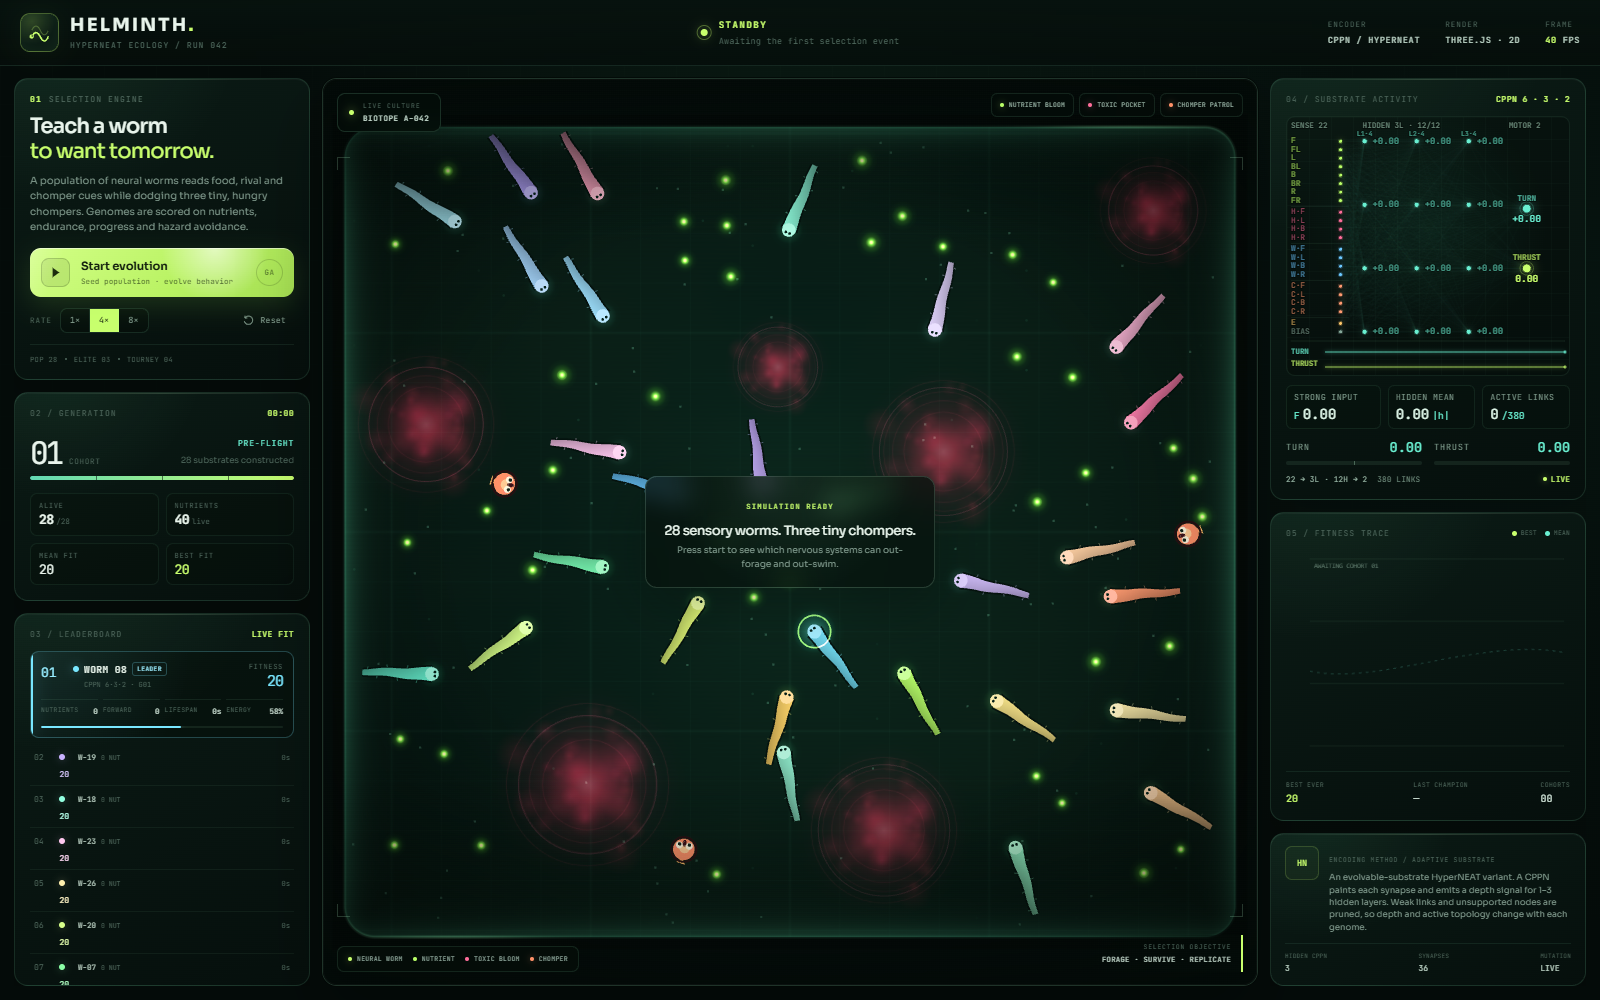
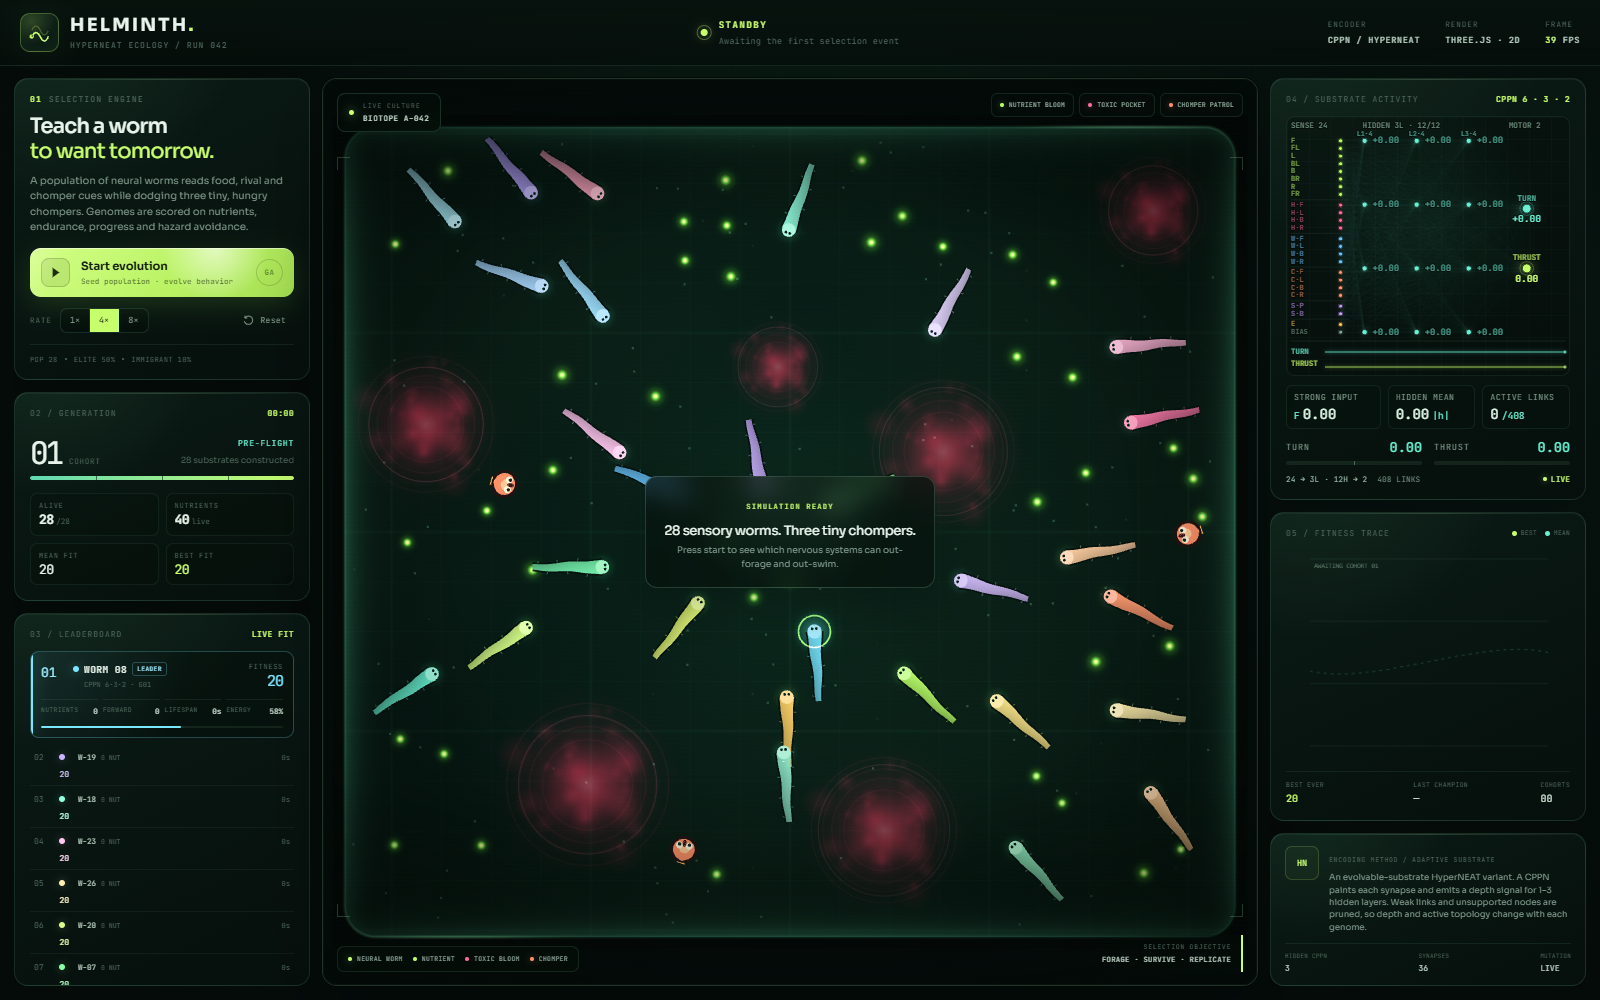
Let worms sense their own body to avoid self-collision

diff --git a/src/sim/worm.js b/src/sim/worm.js
@@ -6,6 +6,7 @@ const FOOD_RAYS = 8;
 const HAZARD_RAYS = 4;
 const WORM_RAYS = 4;
 const CHOMPER_RAYS = 4;
+const SELF_RAYS = 2;
 const SENSOR_OFFSETS = [0, Math.PI / 2, Math.PI, -Math.PI / 2];
 const TWO_PI = Math.PI * 2;
 
@@ -110,11 +111,13 @@ export class Worm {
       hazardSensorRange,
       wormSensorRange = foodSensorRange,
       chomperSensorRange = hazardSensorRange,
+      spacing,
     } = this.config.worm;
     const foodSensors = new Array(FOOD_RAYS).fill(0);
     const hazardSensors = new Array(HAZARD_RAYS).fill(0);
     const wormSensors = new Array(WORM_RAYS).fill(0);
     const chomperSensors = new Array(CHOMPER_RAYS).fill(0);
+    const selfSensors = new Array(SELF_RAYS).fill(0);
     const foodRangeSq = foodSensorRange * foodSensorRange;
     const wormRangeSq = wormSensorRange * wormSensorRange;
 
@@ -227,11 +230,44 @@ export class Worm {
       chomperSensors[index] = clamp(chomperSensors[index], 0, 1);
     }
 
+    const selfGuard = this.config.worm.collision.selfGuardSegments ?? 0;
+    let selfFold = 0;
+    let selfSide = 0;
+    for (let index = selfGuard; index < this.body.length - 1; index += 1) {
+      const a = this.body[index];
+      const b = this.body[index + 1];
+      const abx = b.x - a.x;
+      const aby = b.y - a.y;
+      const lengthSq = abx * abx + aby * aby;
+      const t =
+        lengthSq > 0.0001
+          ? Math.max(
+              0,
+              Math.min(1, ((this.x - a.x) * abx + (this.y - a.y) * aby) / lengthSq),
+            )
+          : 0;
+      const pointX = a.x + abx * t;
+      const pointY = a.y + aby * t;
+      const distance = Math.hypot(this.x - pointX, this.y - pointY);
+      const natural = index * spacing;
+      const fold = clamp((natural - distance) / natural, 0, 1);
+      if (fold <= selfFold) continue;
+      selfFold = fold;
+      const vx = pointX - this.x;
+      const vy = pointY - this.y;
+      const length = Math.hypot(vx, vy) || 1;
+      selfSide =
+        ((Math.cos(this.heading) * vy - Math.sin(this.heading) * vx) / length) * fold;
+    }
+    selfSensors[0] = selfFold;
+    selfSensors[1] = selfSide;
+
     this.sensorValues = [
       ...foodSensors,
       ...hazardSensors,
       ...wormSensors,
       ...chomperSensors,
+      ...selfSensors,
       clamp(this.energy / this.maxEnergy, 0, 1),
       1,
     ];

diff --git a/src/neat/hyperneat.js b/src/neat/hyperneat.js
@@ -9,6 +9,7 @@ const FOOD_LABELS = ['F', 'FL', 'L', 'BL', 'B', 'BR', 'R', 'FR'];
 const HAZARD_LABELS = ['H·F', 'H·L', 'H·B', 'H·R'];
 const WORM_LABELS = ['W·F', 'W·L', 'W·B', 'W·R'];
 const CHOMPER_LABELS = ['C·F', 'C·L', 'C·B', 'C·R'];
+const SELF_LABELS = ['S·P', 'S·B'];
 
 function ringPosition(angle, radius) {
   return {
@@ -60,6 +61,8 @@ function createInputLayout() {
     });
   }
 
+  inputs.push({ kind: 'self', index: 0, label: SELF_LABELS[0], x: -0.74, y: 0.44 });
+  inputs.push({ kind: 'self', index: 1, label: SELF_LABELS[1], x: 0.74, y: 0.44 });
   inputs.push({ kind: 'energy', index: 0, label: 'E', x: 0, y: 0.21 });
   inputs.push({ kind: 'bias', index: 0, label: 'B', x: 0, y: -0.17 });
   return inputs;

diff --git a/index.html b/index.html
@@ -121,7 +121,7 @@
             </div>
 
             <div class="panel-foot">
-              <span>POP 28</span><i></i><span>ELITE 03</span><i></i><span>TOURNEY 04</span>
+              <span>POP 28</span><i></i><span>ELITE 50%</span><i></i><span>IMMIGRANT 10%</span>
             </div>
           </section>
 
@@ -277,7 +277,7 @@
               </div>
             </div>
             <div class="brain-foot">
-              <span id="brainArchitecture">22 → 2L · 0H → 2</span>
+              <span id="brainArchitecture">24 → 2L · 0H → 2</span>
               <span id="brainLinkCount">— LINKS</span>
               <span><i></i> LIVE</span>
             </div>

diff --git a/src/ui/dashboard.js b/src/ui/dashboard.js
@@ -50,6 +50,7 @@ function inputColor(kind) {
   if (kind === 'hazard') return '#ff6e9b';
   if (kind === 'worm') return '#6bc8ff';
   if (kind === 'chomper') return '#ff9b71';
+  if (kind === 'self') return '#c9a0ff';
   if (kind === 'energy') return '#ffc96b';
   return '#85a99a';
 }

diff --git a/src/config.js b/src/config.js
@@ -71,7 +71,7 @@ export const CONFIG = Object.freeze({
   },
 });
 
-export const SENSOR_COUNT = 8 + 4 + 4 + 4 + 2;
+export const SENSOR_COUNT = 8 + 4 + 4 + 4 + 2 + 2;
 
 export const WORM_PALETTE = [
   '#b9ff6a',

diff --git a/README.md b/README.md
@@ -11,11 +11,11 @@ HELMINTH is a browser-native 2D artificial-life experiment. A population of 28 n
 ## Highlights
 
 - **Evolvable-substrate HyperNEAT** — 1–3 hidden layers, four candidate nodes per layer, CPPN-painted synapses, and pruning of weak or unsupported nodes.
-- **22-channel sensorium** — 8 food rays, 4 hazard rays, 4 rival-worm rays, 4 chomper rays, energy, and bias.
+- **24-channel sensorium** — 8 food rays, 4 hazard rays, 4 rival-worm rays, 4 chomper rays, 2 self-body rays, energy, and bias.
 - **Body-aware worms** — 15-segment bodies, self-collision, worm-to-worm collision, wall response, and lethal energy loss.
 - **Chomper patrol** — three predators that wander, chase, lunge, bite, digest, and retreat.
 - **Live neurotelemetry** — substrate graph, active links, hidden-layer depth, strongest sensor, motor outputs, fitness trace, and live ranking.
-- **Evidence-based UI checks** — a Playwright assessment verifies the ecology, the 22-sensor contract, responsive layout, and the absence of page errors.
+- **Evidence-based UI checks** — a Playwright assessment verifies the ecology, the 24-sensor contract, responsive layout, and the absence of page errors.
 
 ## Quick start
 
@@ -58,14 +58,14 @@ The assessment builds the production bundle, starts a temporary static server, a
 | ![Worms foraging while chompers patrol](docs/screenshots/02-selection-live.png) | ![Generation complete with fitness trace](docs/screenshots/03-cohort-scored.png) |
 
 <p align="center">
-  <img src="docs/screenshots/04-substrate.png" alt="Live substrate panel showing 22 sensors, two hidden layers, and 43 links" width="380">
+  <img src="docs/screenshots/04-substrate.png" alt="Live substrate panel showing 24 sensors, one hidden layer, and 40 links" width="380">
 </p>
 
-The substrate close-up shows the evolved topology in motion: food, hazard, rival, and chomper channels feed the hidden layers, while the readout reports `22 → 2L · 4H → 2` and `43 LINKS`.
+The substrate close-up shows the evolved topology in motion: food, hazard, rival, chomper, and self-body channels feed the hidden layers, while the readout reports `24 → 1L · 3H → 2` and `40 LINKS`.
 
 ## How a generation works
 
-1. **Sense.** Each living worm samples the 22-channel sensorium.
+1. **Sense.** Each living worm samples the 24-channel sensorium.
 2. **Think.** The worm's substrate performs a forward pass and emits turn and thrust outputs.
 3. **Move.** Steering, thrust, speed, body joints, wall contact, and energy drain update at a fixed 60 Hz simulation step.
 4. **Interact.** Food is consumed, toxic blooms damage worms, worm bodies collide, and chompers bite.
@@ -84,7 +84,7 @@ The CPPN is a small fixed-topology network (`6 → 3 → 2` in the UI). It is qu
 - hidden-to-hidden links only point forward;
 - inputs connect to hidden nodes and directly to motor outputs.
 
-The result is a different active topology for each genome, shown live as `22 → nL · hH → 2`, with the number of active links and hidden mean activation.
+The result is a different active topology for each genome, shown live as `24 → nL · hH → 2`, with the number of active links and hidden mean activation.
 
 ## Sensorium
 
@@ -94,10 +94,11 @@ The result is a different active topology for each genome, shown live as `22 →
 | Hazard | 4 | 260 | Toxic-pocket proximity, with stronger signal inside the bloom |
 | Rival worm | 4 | 300 | Direction and closeness to the nearest point on another worm's body |
 | Chomper | 4 | 300 | Direction and closeness to a chomper, boosted by chase excitement and active chomping |
+| Self body | 2 | — | How tightly the head is folded against its own trailing segments, and which side that body lies on |
 | Energy | 1 | — | Current energy normalized to maximum |
 | Bias | 1 | — | Constant `1` |
 
-Food uses eight rays around the heading. Hazard, rival, and chomper channels each use four rays. Rival sensing samples the nearest body segment rather than only the other worm's head, so body contact is represented too.
+Food uses eight rays around the heading. Hazard, rival, and chomper channels each use four rays. Rival sensing samples the nearest body segment rather than only the other worm's head, so body contact is represented too. The two self channels let a worm feel its own body: one reports how far the head has folded back onto its trailing segments, the other reports which side that body lies on, so a coil can be unwound before it becomes a lethal self-collision.
 
 ## Fitness
 
@@ -158,7 +159,7 @@ assess/                Playwright visual and behavioral assessment
 
 - WebGL arena geometry and visible motion;
 - three active chompers;
-- 22 sensors with food, hazard, worm, and chomper channels;
+- 24 sensors with food, hazard, worm, chomper, and self-body channels;
 - cohort scoring and advancement to the next generation;
 - intermission only after every worm has died;
 - pause/resume behavior;
